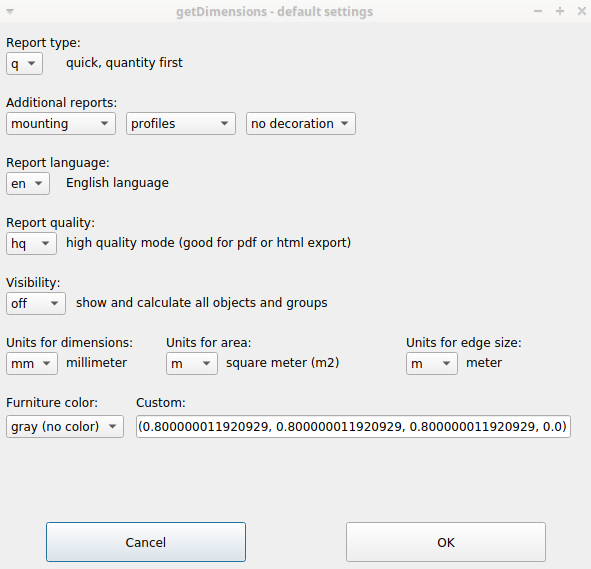
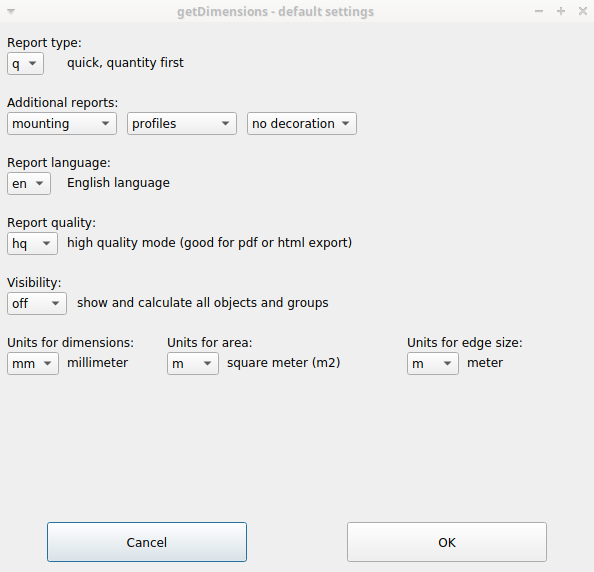
improve edgeband

diff --git a/getDimensions.py b/getDimensions.py
@@ -120,16 +120,6 @@ sUnitsEdgeDsc = {
 	"in" : translate("getDimensions", "inch")
 }
 
-# Furniture color:
-# Edge face with other color than furniture color will be calculated as edgeband.
-sFColorD = "gray (no color)"
-sFColorDsc = {
-	"gray (no color)" : (0.800000011920929, 0.800000011920929, 0.800000011920929, 0.0),
-	"white" : (1.0, 1.0, 1.0, 0.0),
-	"black" :  (0.0, 0.0, 0.0, 0.0)
-}
-sFColor = sFColorDsc[sFColorD]
-
 # Edgeband code:
 sEColorD = "PL55 PVC"
 sEColorDsc = {
@@ -497,36 +487,6 @@ def showQtGUI():
 			self.ufsIS.move(470, vLine + vLineNextRow + 3)
 
 			# ############################################################################
-			# furniture color
-			# here is different you set description to variable
-			# ############################################################################
-
-			# set line separator
-			vLine = vLine + vLineOffset
-
-			# label
-			self.fcL = QtGui.QLabel(translate("getDimensions", "Furniture color:"), self)
-			self.fcL.move(10, vLine + 3)
-
-			# options
-			self.fcList = tuple(sFColorDsc.keys())
-			self.fcO = QtGui.QComboBox(self)
-			self.fcO.addItems(self.fcList)
-			self.fcO.setCurrentIndex(self.fcList.index(str(sFColorD)))
-			self.fcO.activated[str].connect(self.setFColor)
-			self.fcO.move(10, vLine + vLineNextRow + 3)
-
-			# text input label
-			self.fctiL = QtGui.QLabel(translate("getDimensions", "Custom:"), self)
-			self.fctiL.move(140, vLine + 3)
-
-			# text input
-			self.fcti = QtGui.QLineEdit(self)
-			self.fcti.setText(str(sFColor))
-			self.fcti.setFixedWidth(435)
-			self.fcti.move(140, vLine + vLineNextRow + 3)
-
-			# ############################################################################
 			# edgeband code
 			# here is different you set description to variable
 			# ############################################################################
@@ -621,12 +581,7 @@ def showQtGUI():
 				self.ufsL.show()
 				self.ufsO.show()
 				self.ufsIS.show()
-				# furniture color
-				self.fcL.show()
-				self.fcO.show()
-				self.fctiL.show()
-				self.fcti.show()
-	
+				
 			if iAction == "hide":
 				# units for area
 				self.ufaL.hide()
@@ -636,12 +591,7 @@ def showQtGUI():
 				self.ufsL.hide()
 				self.ufsO.hide()
 				self.ufsIS.hide()
-				# furniture color
-				self.fcL.hide()
-				self.fcO.hide()
-				self.fctiL.hide()
-				self.fcti.hide()
-
+				
 		def setRC(self, selectedText):
 			global sLTF
 			sLTF = selectedText
@@ -723,12 +673,6 @@ def showQtGUI():
 			self.ufsIS.setText(str(sUnitsEdgeDsc[sUnitsEdge]) + sEmptyDsc)
 
 		# here is different you set description to variable
-		def setFColor(self, selectedText):
-			# the variable will be set at OK button click from text form
-			tmpColor = sFColorDsc[str(selectedText)]
-			self.fcti.setText(str(tmpColor))
-
-		# here is different you set description to variable
 		def setEColor(self, selectedText):
 			global sEColor
 			tmpColor = sEColorDsc[str(selectedText)]
@@ -757,12 +701,8 @@ def showQtGUI():
 		pass
 	
 	if form.result == userOK:
-		global sFColor
 		global sEColor
 		
-		# set furniture color from text form
-		sFColor = form.fcti.text()
-
 		# set edgeband code from text form
 		sEColor = form.ecti.text()
 		
@@ -1139,6 +1079,7 @@ def getEdgeBand(iObj, iW, iH, iL, iCaller="getEdgeBand"):
 
 		# get faces colors
 		vFacesColors = iObj.ViewObject.DiffuseColor
+		vObjColor = iObj.ViewObject.ShapeColor
 
 		# edgeband for given object
 		vEdgeSum = 0
@@ -1157,9 +1098,9 @@ def getEdgeBand(iObj, iW, iH, iL, iCaller="getEdgeBand"):
 			vFaceD.insert(i, 0)
 			vFaceV.insert(i, "")
 
-			# if the edge face color is different than default furniture color 
-			# it means this edge is covered by user
-			if str(c) != str(sFColor):
+			# if the edge face color is different than object color, 
+			# it means this is edgeband added by the user
+			if str(c) != str(vObjColor):
 				
 				vFaceEdge = iObj.Shape.Faces[i].Length
 	
@@ -3664,7 +3605,7 @@ def setViewEdge(iCaller="setViewEdge"):
 	vCell = "A" + str(gSheetRow) + ":F" + str(gSheetRow)
 	gSheet.setBackground(vCell, gHeadCS)
 
-	# skip if furniture color is not set correctly
+	# skip if edgeband is not set correctly
 	if dbE["empty"] >= 0 and dbE["edgeband"] > 0:
 
 		# go to next spreadsheet row

diff --git a/Docs/README.md b/Docs/README.md
@@ -198,7 +198,7 @@ This type of report is designed for edgeband. Also You can verify if Your 3D mod
 * Each column represents `face` object number at 3D model.
 * If Your furniture part `Height` is `Thickness` the `1`, `2`, `3`, `4` will be recognized as `edge`, and `5`, `6` will be `surface`. If Your 3D model is designed differently the columns `5`, `6` may be covered with veneer but this will be recognized as `edge`. 
 * Some transformations can have more than 6 faces. To apply veneer correctly for transformation make sure You add `face color` at base object. You have to change the base object visibility first.
-* If You applied only veneer, leave the furniture color as `gray (no color)`. The `Furniture color` is the reference color for comparison. All faces with other color than given `Furniture color` will be considered as edgeband. If You want to use the edgeband feature, the best way is to leave the furniture without color and apply only color for faces that need to be covered with veneer. If You apply strange color for furniture, You might have problem to convert it to tuple FreeCAD color. 
+* All faces with other color than `object color` will be considered as edgeband. If You want to use the edgeband feature, the best way is to leave the furniture without color and apply only color for faces that need to be covered with veneer. 
 * Report for multi-color furniture can be achieved by making two reports for each color (use [Visibility](#visibility) feature to hide each color).
 * The edgeband color at 3D model does not matter. `Edgeband code` is only text that will be displayed at report. It can represent any veneer tape color at shop, even reference code. The spreadsheet column width is limited, however at HTML export this can be extended.
 * This type of report can exceed a single TechDraw page. To export this type of report, see the [Report - export](#report---export) section.
@@ -217,7 +217,7 @@ This type of report might be useful for raw wood projects, CNC or very detailed 
 * Each column represents `face` object number at 3D model.
 * If Your furniture part `Height` is `Thickness` the `1`, `2`, `3`, `4` will be recognized as `edge`, and `5`, `6` will be `surface`. If Your 3D model is designed differently the columns `5`, `6` may be covered with veneer but this will be recognized as `edge`. 
 * Some transformations can have more than 6 faces. To apply veneer correctly for transformation make sure You add `face color` at base object. You have to change the base object visibility first.
-* If You applied only veneer, leave the furniture color as `gray (no color)`. The `Furniture color` is the reference color for comparison. All faces with other color than given `Furniture color` will be considered as edgeband. If You want to use the edgeband feature, the best way is to leave the furniture without color and apply only color for faces that need to be covered with veneer. If You apply strange color for furniture, You might have problem to convert it to tuple FreeCAD color. 
+* All faces with other color than `object color` will be considered as edgeband. If You want to use the edgeband feature, the best way is to leave the furniture without color and apply only color for faces that need to be covered with veneer.
 * Report for multi-color furniture can be achieved by making two reports for each color (use [Visibility](#visibility) feature to hide each color).
 * The edgeband color at 3D model does not matter. `Edgeband code` is only text that will be displayed at report. It can represent any veneer tape color at shop, even reference code. The spreadsheet column width is limited, however at HTML export this can be extended.
 * The holes and countersinks are taken from `constraints names` of the base object of the group. For example if You make `MultiTransform` You have to set the `constraints names` at the base object.
@@ -683,7 +683,7 @@ If You want more detailed report about the edgeband You should consider [Constra
 ___
 ### Edgeband - detailed by selection
 
-* This way use `e - report type`. For this type of report You need to have the veneer applied correctly for each `face` at 3D model that needs to be covered. Also You have to provide Your furniture color for edgeband color comparison. To apply veneer for `face` use: 
+* This way use `e - report type`. For this type of report You need to have the veneer applied correctly for each `face` at 3D model that needs to be covered. To apply veneer for `face` use: 
 	* `Mouse Right Button` click for object.
 	* Choose from submenu `Set colors...`.
 	* Select all needed `faces` using pressed `CTRL` keyboard key with `Mouse Left Button` click.
@@ -694,7 +694,7 @@ ___
 
     ![Edgeband007](https://raw.githubusercontent.com/dprojects/getDimensions/master/Docs/Screenshots/Edgeband007.png)
 
-	**Note:** This feature not working for multi-color furniture. To determine the edgeband color the macro compare the `face` color with given `furniture color`. If You want to generate report for multi-color furniture just organize You furniture parts in folders and use `Visibility` to generate report for each color. 
+	**Note:** This feature not working for multi-color furniture. To determine the edgeband color the macro compare the `face` color with `object color`. If You want to generate report for multi-color furniture just organize You furniture parts in folders and use `Visibility` to generate report for each color. 
 
 ___
 ## Dowels, pilot holes, countersinks

diff --git a/Test/README.md b/Test/README.md
@@ -13,7 +13,6 @@
     * Test edgeband and extended edge report.
     * **Settings:** 
         * `Report type` to `e`, 
-        * `Furniture color` to `white`, 
         * `Edgeband code` to `black`.
 2. **Test003_holes:** 
     * Test detailed report with edgeband, holes and countersinks and advanced features like Mirrored on Body, Clone, multi object MultiTransform.
